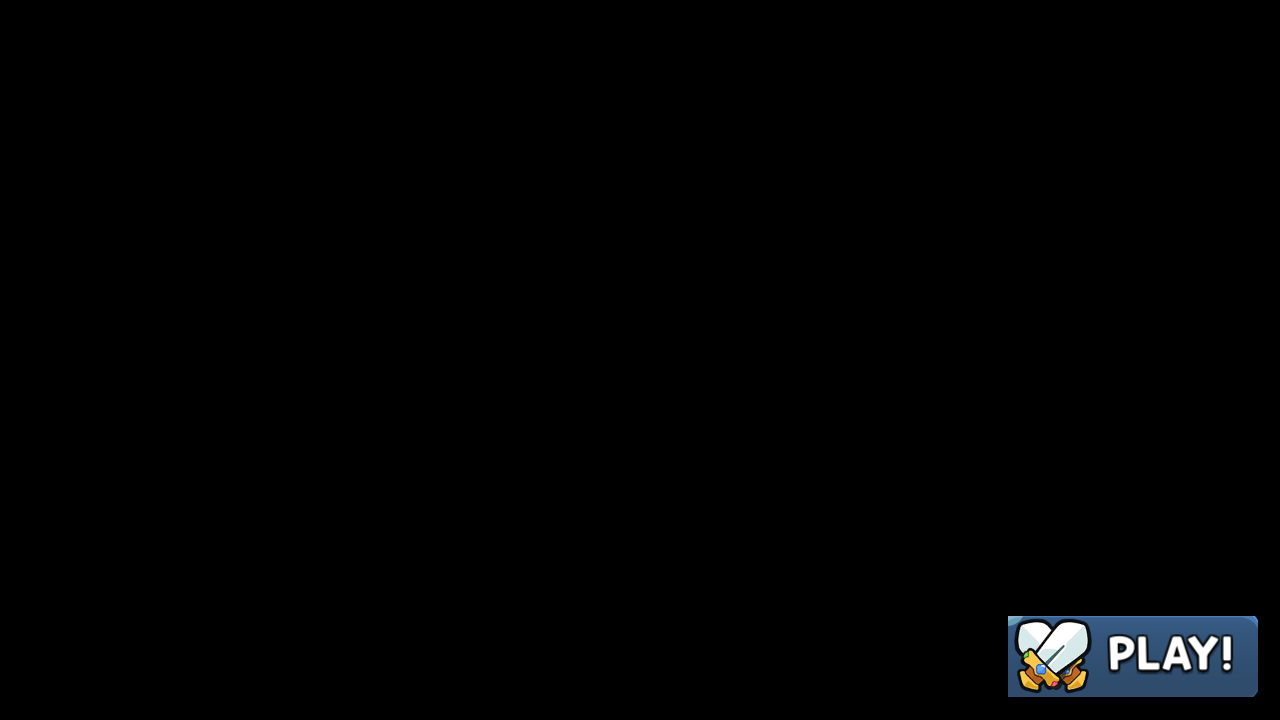
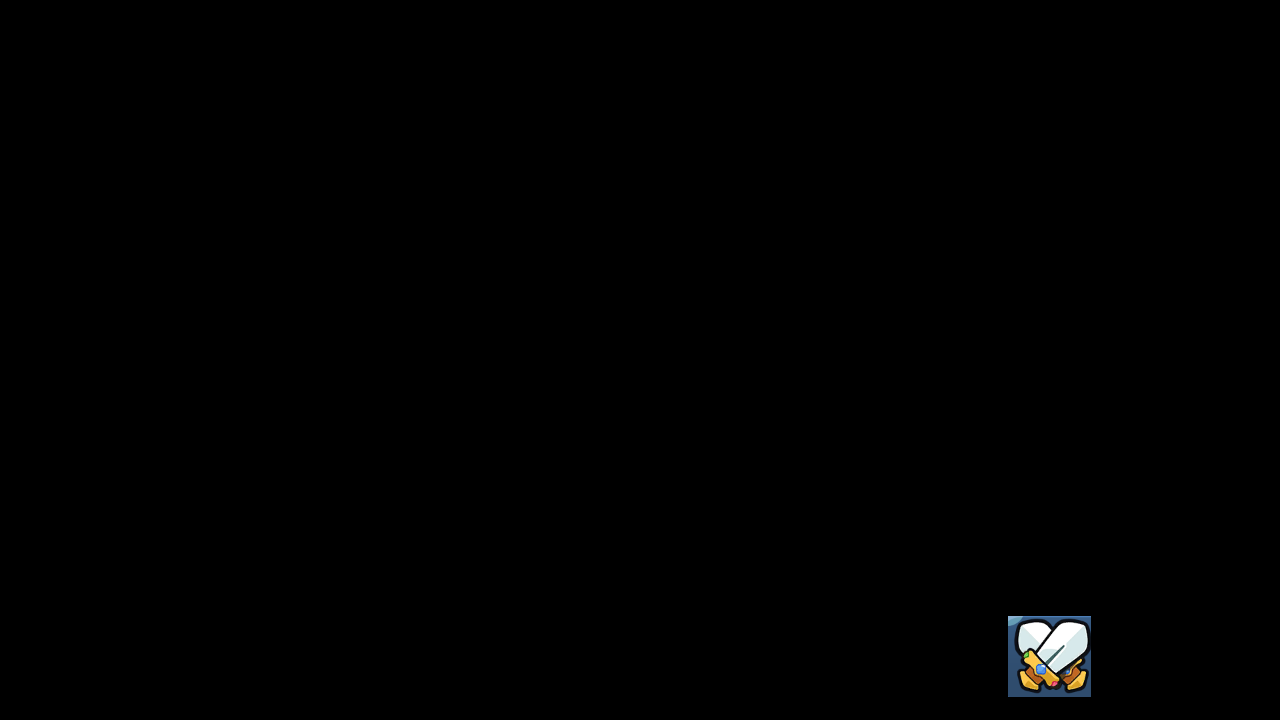
feat: dashboard production

Changed region(s): [[0.8438, 0.8556, 1.0, 0.9778]]

diff --git a/tasks/base/assets/assets_base_page.py b/tasks/base/assets/assets_base_page.py
@@ -73,16 +73,6 @@ ARENA_CHECK = ButtonWrapper(
         button=(464, 658, 631, 692),
     ),
 )
-ASSIGNMENT_CHECK = ButtonWrapper(
-    name='ASSIGNMENT_CHECK',
-    en=Button(
-        file='./assets/en/base/page/ASSIGNMENT_CHECK.png',
-        area=(535, 165, 581, 180),
-        search=(515, 145, 601, 200),
-        color=(204, 195, 176),
-        button=(535, 165, 581, 180),
-    ),
-)
 BALLOON_CHECK = ButtonWrapper(
     name='BALLOON_CHECK',
     share=Button(
@@ -105,8 +95,8 @@ CLOSE = ButtonWrapper(
 )
 DASHBOARD_CHECK = ButtonWrapper(
     name='DASHBOARD_CHECK',
-    share=Button(
-        file='./assets/share/base/page/DASHBOARD_CHECK.png',
+    en=Button(
+        file='./assets/en/base/page/DASHBOARD_CHECK.png',
         area=(356, 656, 632, 707),
         search=(336, 636, 652, 720),
         color=(94, 102, 133),
@@ -127,10 +117,10 @@ EXPLORATION_GOTO_ADVENTURES = ButtonWrapper(
     name='EXPLORATION_GOTO_ADVENTURES',
     share=Button(
         file='./assets/share/base/page/EXPLORATION_GOTO_ADVENTURES.png',
-        area=(1160, 620, 1257, 695),
-        search=(1140, 600, 1277, 715),
-        color=(147, 112, 95),
-        button=(1160, 620, 1257, 695),
+        area=(1160, 620, 1257, 676),
+        search=(1140, 600, 1277, 696),
+        color=(162, 114, 89),
+        button=(1160, 620, 1257, 676),
     ),
 )
 GACHA_CHECK = ButtonWrapper(
@@ -147,10 +137,10 @@ MAIN_GOTO_ADVENTURES = ButtonWrapper(
     name='MAIN_GOTO_ADVENTURES',
     share=Button(
         file='./assets/share/base/page/MAIN_GOTO_ADVENTURES.png',
-        area=(1008, 616, 1258, 697),
-        search=(988, 596, 1278, 717),
-        color=(94, 111, 128),
-        button=(1008, 616, 1258, 697),
+        area=(1008, 616, 1091, 697),
+        search=(988, 596, 1111, 717),
+        color=(130, 135, 132),
+        button=(1008, 616, 1091, 697),
     ),
 )
 MAIN_GOTO_AFFAIRS = ButtonWrapper(
@@ -205,8 +195,8 @@ PAVILION_CHECK = ButtonWrapper(
 )
 SHOP_CHECK = ButtonWrapper(
     name='SHOP_CHECK',
-    share=Button(
-        file='./assets/share/base/page/SHOP_CHECK.png',
+    en=Button(
+        file='./assets/en/base/page/SHOP_CHECK.png',
         area=(14, 12, 104, 58),
         search=(0, 0, 124, 78),
         color=(69, 69, 73),

diff --git a/tasks/production/production.py b/tasks/production/production.py
@@ -1,0 +1,59 @@
+from enum import Enum
+
+from module.base.timer import Timer
+from module.exception import RequestHumanTakeover
+from module.logger import logger
+from tasks.base.ui import UI
+from tasks.base.page import page_dashboard
+from tasks.base.page import DASHBOARD_CHECK
+from tasks.production.assets.assets_production import OPEN_PRODUCE_ALL, CONFIRM_PRODUCE_ALL
+
+
+class ProductionStatus(Enum):
+    ENTER = 0
+    OPEN = 1
+    CONFIRM = 2
+    FINISH = 3
+
+
+class Production(UI):
+    def handle_production(self, status):
+        match status:
+            case ProductionStatus.ENTER:
+                if self.appear(OPEN_PRODUCE_ALL):
+                    return ProductionStatus.OPEN
+                self.device.click(DASHBOARD_CHECK)
+            case ProductionStatus.OPEN:
+                if self.appear(CONFIRM_PRODUCE_ALL):
+                    return ProductionStatus.CONFIRM
+                self.device.click(OPEN_PRODUCE_ALL)
+            case ProductionStatus.CONFIRM:
+                if not self.appear(CONFIRM_PRODUCE_ALL):
+                    return ProductionStatus.FINISH
+                self.device.click(CONFIRM_PRODUCE_ALL)
+            case ProductionStatus.FINISH:
+                return status
+            case _:
+                logger.warning(f'Invalid status: {status}')
+
+        return status
+
+    def run(self):
+        self.ui_ensure(page_dashboard)
+        action_timer = Timer(0.5, 1)
+        status = ProductionStatus.ENTER
+
+        while 1:
+            self.device.screenshot()
+
+            if self.ui_additional():
+                continue
+
+            if action_timer.reached_and_reset():
+                logger.attr('Status', status)
+                status = self.handle_production(status)
+
+            if status == ProductionStatus.FINISH:
+                break
+
+        self.config.task_delay(minute=self.config.ProductionInterval_value)

diff --git a/tasks/production/assets/assets_production.py b/tasks/production/assets/assets_production.py
@@ -1,0 +1,25 @@
+from module.base.button import Button, ButtonWrapper
+
+# This file was auto-generated, do not modify it manually. To generate:
+# ``` python -m dev_tools.button_extract ```
+
+CONFIRM_PRODUCE_ALL = ButtonWrapper(
+    name='CONFIRM_PRODUCE_ALL',
+    en=Button(
+        file='./assets/en/production/CONFIRM_PRODUCE_ALL.png',
+        area=(674, 550, 853, 594),
+        search=(654, 530, 873, 614),
+        color=(123, 183, 47),
+        button=(674, 550, 853, 594),
+    ),
+)
+OPEN_PRODUCE_ALL = ButtonWrapper(
+    name='OPEN_PRODUCE_ALL',
+    share=Button(
+        file='./assets/share/production/OPEN_PRODUCE_ALL.png',
+        area=(1075, 667, 1102, 698),
+        search=(1055, 647, 1122, 718),
+        color=(136, 184, 78),
+        button=(1075, 667, 1102, 698),
+    ),
+)

diff --git a/tasks/base/page.py b/tasks/base/page.py
@@ -81,6 +81,11 @@ page_affairs = Page(AFFAIRS_GOTO_DEPTHS)
 page_affairs.link(CLOSE, destination=page_main)
 page_main.link(MAIN_GOTO_AFFAIRS, destination=page_affairs)
 
+# Dashboard
+page_dashboard = Page(DASHBOARD_CHECK)
+page_dashboard.link(CLOSE, destination=page_main)
+page_main.link(MAIN_GOTO_DASHBOARD, destination=page_dashboard)
+
 # Depths
 page_depths = Page(DEPTHS_CHECK)
 page_depths.link(CLOSE, destination=page_main)

diff --git a/src.py b/src.py
@@ -34,6 +34,10 @@ class StarRailCopilot(AzurLaneAutoScript):
         from tasks.freebies.freebies import Freebies
         Freebies(config=self.config, device=self.device).run()
 
+    def production(self):
+        from tasks.production.production import Production
+        Production(config=self.config, device=self.device).run()
+
 
 if __name__ == '__main__':
     src = StarRailCopilot('src')

diff --git a/tasks/login/assets/assets_login.py b/tasks/login/assets/assets_login.py
@@ -15,8 +15,8 @@ LOGIN_CONFIRM = ButtonWrapper(
 )
 LOGIN_LOADING = ButtonWrapper(
     name='LOGIN_LOADING',
-    share=Button(
-        file='./assets/share/login/LOGIN_LOADING.png',
+    en=Button(
+        file='./assets/en/login/LOGIN_LOADING.png',
         area=(1165, 695, 1259, 713),
         search=(1145, 675, 1279, 720),
         color=(58, 57, 48),

diff --git a/module/config/config_generated.py b/module/config/config_generated.py
@@ -45,3 +45,6 @@ class GeneratedConfig:
     ItemStorage_JuicyStaminaJelly = {}
     ItemStorage_Coin = {}
     ItemStorage_Crystal = {}
+
+    # Group `ProductionInterval`
+    ProductionInterval_value = 10

diff --git a/module/config/config_manual.py b/module/config/config_manual.py
@@ -10,7 +10,7 @@ class ManualConfig:
 
     SCHEDULER_PRIORITY = """
     Restart
-    > Freebies > DataUpdate
+    > Freebies > DataUpdate > Production
     """
 
     """
